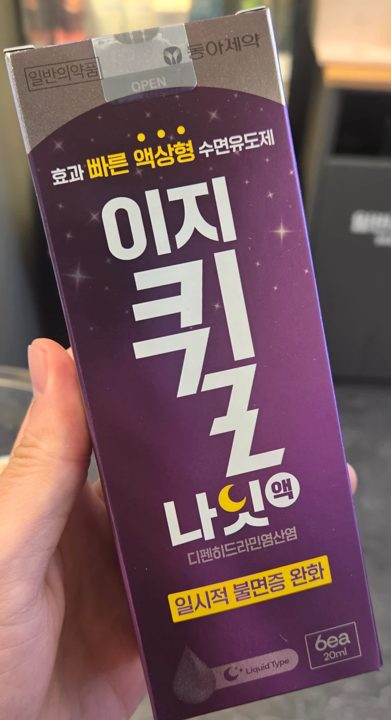
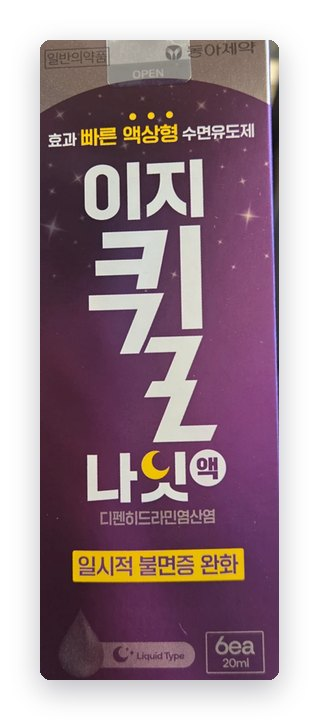
제품 사진 배경 제거·정면 보정

diff --git a/index.html b/index.html
@@ -24,7 +24,7 @@ main{padding:18px 16px 40px;max-width:560px;margin:0 auto}
 .pick h2{font-size:26px;margin:4px 2px 2px;font-weight:800}
 .pick .ko{margin:0 2px 12px}
 .prow{display:flex;align-items:center;gap:12px;background:var(--card);border-radius:16px;padding:10px 12px;margin-bottom:10px;text-decoration:none;color:inherit;border-left:8px solid}
-.prow img{width:56px;height:56px;border-radius:10px;object-fit:cover;flex:none}
+.prow img{width:60px;height:60px;border-radius:10px;object-fit:contain;background:#fff;flex:none}
 .prow .w{flex:1;min-width:0}
 .prow b{display:block;font-size:20px;line-height:1.3}
 .prow .to{font-size:14px;color:var(--sub);margin-top:2px}
@@ -35,8 +35,8 @@ main{padding:18px 16px 40px;max-width:560px;margin:0 auto}
 .band .no{font-size:13px;opacity:.85;letter-spacing:.08em}
 .band b{display:block;font-size:28px;line-height:1.25;margin-top:2px;font-weight:800;text-wrap:balance}
 .band .ko{color:#fff;opacity:.8}
-.photo{background:#fff;padding:14px 18px 0;text-align:center}
-.photo img{width:100%;max-height:300px;object-fit:contain;border-radius:14px}
+.photo{background:#fff;padding:6px 10px 0;text-align:center}
+.photo img{width:100%;max-height:340px;object-fit:contain}
 .body{padding:12px 18px 20px}
 .name{display:flex;align-items:center;gap:8px;flex-wrap:wrap}
 .name b{font-size:24px;font-weight:800}
